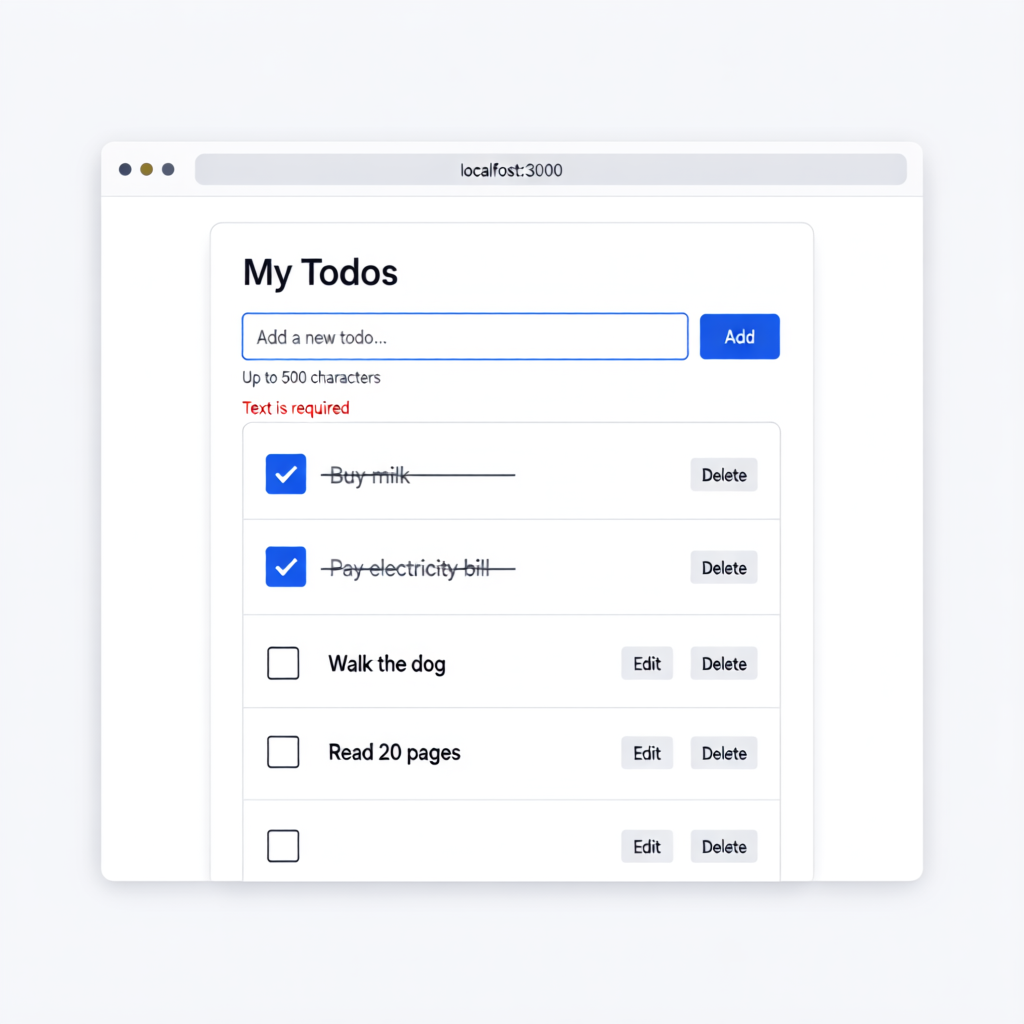
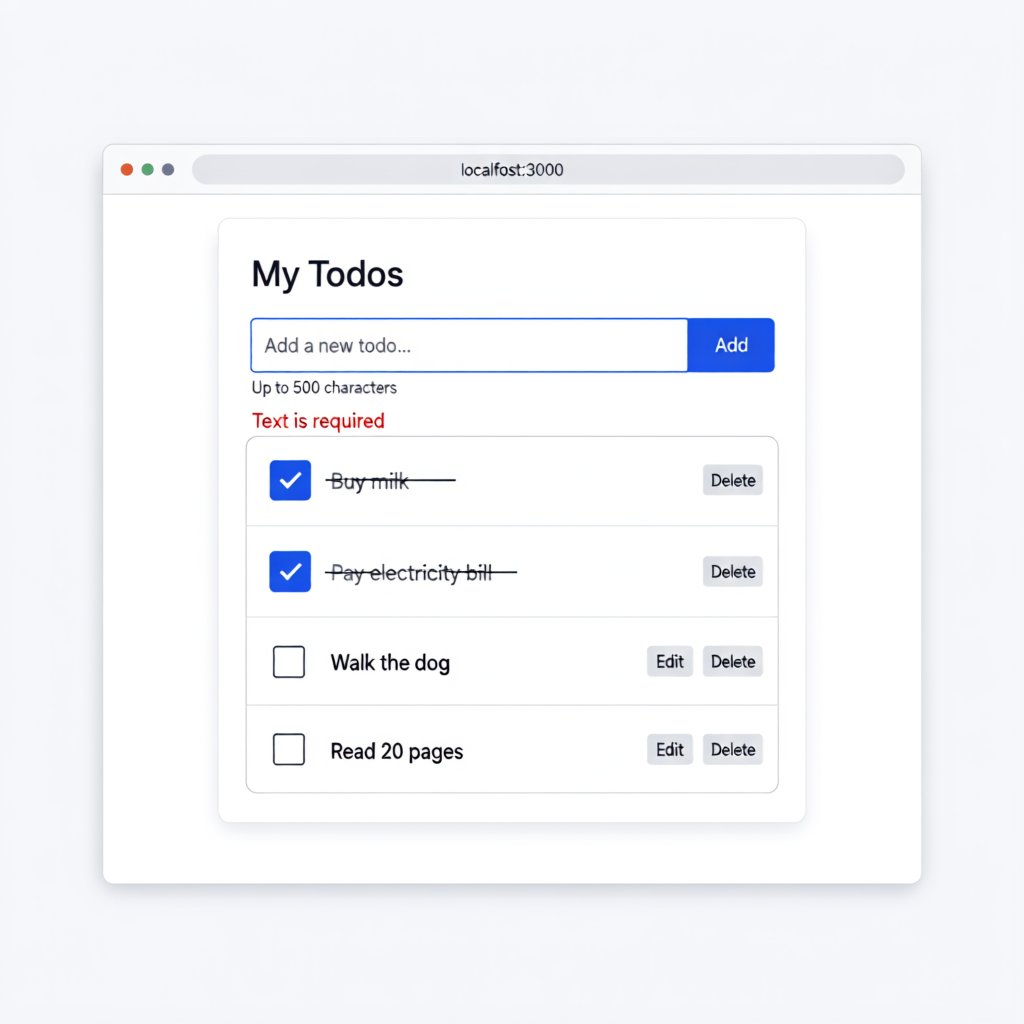
designs: reroll mockups with seeds — frozen-done rule clean

diff --git a/designs/mockups/README.md b/designs/mockups/README.md
@@ -24,8 +24,11 @@ Figma-style JSON; each prompt file holds the exact caption used, so every render
 
 ## Known rendering artifacts
 
-- These are AI-generated diffusion references (ming-image-design): text rendering is imperfect; a stray duplicate label may appear (04 shows a small stray "Save" under row 4 — ignore it; the edit row's Save button is the real one).
-- Strikethrough lines on done rows may extend past the text or cross the checkbox (visual artifact only; the checkbox itself is the done indicator).
-- 06 depicts three todos while other mockups show four — deliberate simplification after the renderer duplicated rows; journeys use four as illustrative copy only.
-- Set regenerated for the frozen-done-text rule (`docs: done todos reject text edits`): done rows intentionally lack an Edit control — checked box + strikethrough + Delete only; not-done rows keep Edit + Delete.
-- Observed in this regeneration pass: stray duplicate labels ghosting into adjacent rows (01, 04), one empty phantom row under the list (03), and 06's done rows leaked an "Edit" label the caption forbids — ignore stray labels; checkbox state is the done indicator.
+Re-rolled per image over seeds 1–3 with frozen captions; the cleanest render was committed. Per the frozen-done-text rule, done rows intentionally lack Edit — checkbox + strikethrough + Delete only; not-done rows keep Edit + Delete.
+
+- `03` (seed 1): clean.
+- `01` (seed 3): one ghost band with stray "Edit"/"Delete" buttons and no checkbox or text sits between rows 2 and 3 — the real list is the four rows; ghost bands are the known diffusion leak, ignore them.
+- `04` (seed 2): one phantom band labeled "Edit" with plain Edit/Delete buttons sits between the edit row and "Read 20 pages" — the single real edit band is the one with the input and the blue Save button.
+- `06` (seed 1): one text-less ghost band with stray "Edit"/"Delete" buttons sits between rows 2 and 3 — the real list is exactly the three todos under the red banner.
+- Strikethrough on done rows may extend past the text; the checkbox is the done indicator.
+- `06` depicts three todos while others show four — deliberate simplification after the renderer duplicated rows; journeys use four as illustrative copy only.
